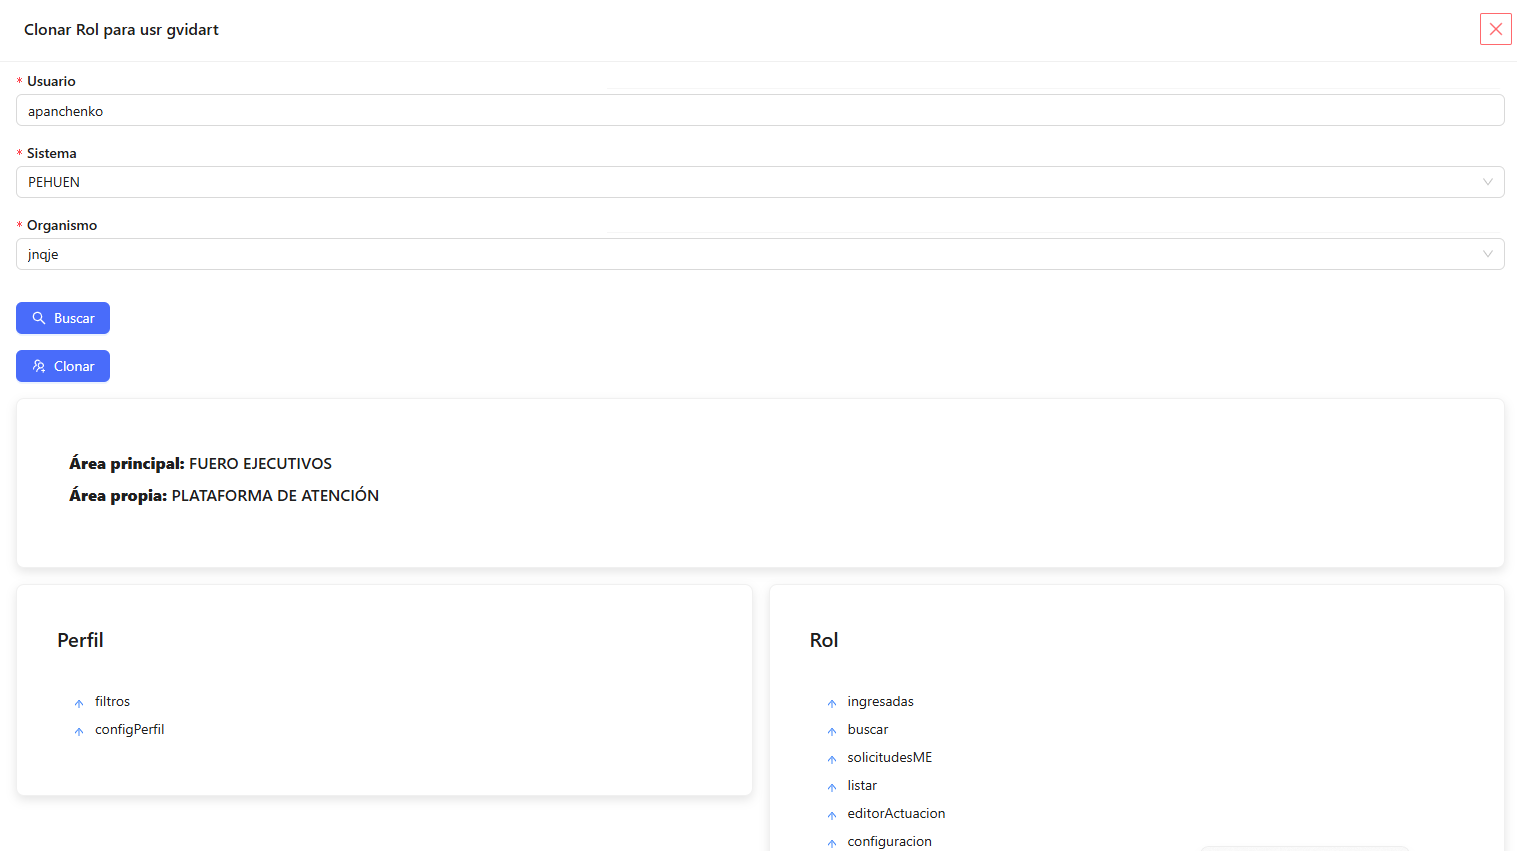
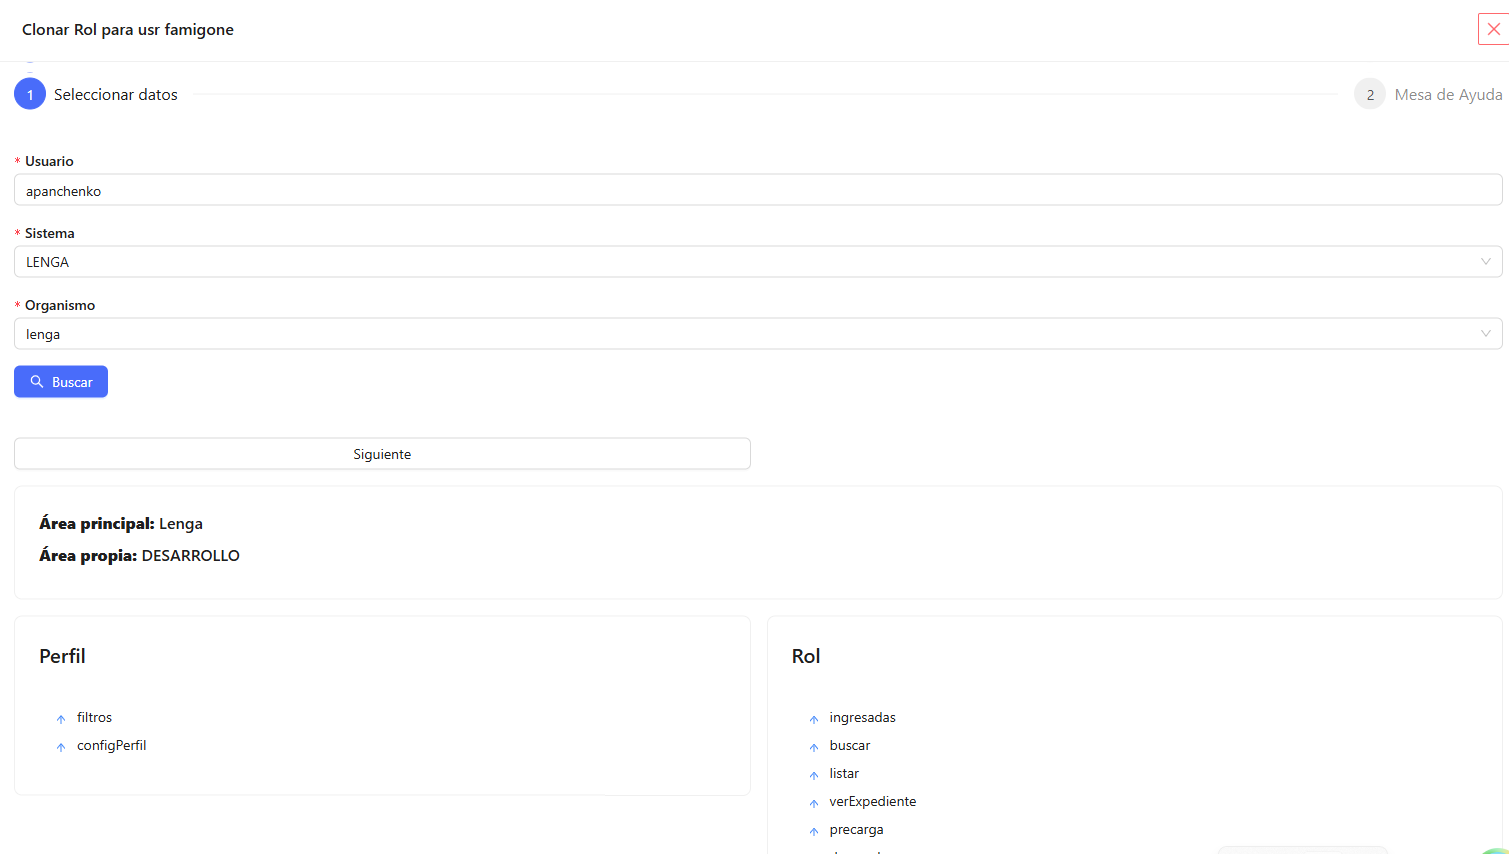
mesa_ayuda_roles

diff --git a/estructuraBD.md b/estructuraBD.md
@@ -232,3 +232,23 @@ Esta colección almacena información sobre los organismos, incluyendo el nombre
 | `updatedAt`       | Date          | Fecha de última actualización de la subárea.                     |
 | `updatedBy`       | String        | Usuario que realizó la última actualización de la subárea.       |
 
+
+## 📂 Colección: mesa_ayuda_roles
+
+### Descripción  
+Esta colección almacena la info de tickets de soporte generados por los usuarios para el pedido de generación de Roles.
+
+### Estructura de la colección
+
+| Campo        | Tipo de dato | Descripción                                                                 |
+|--------------|--------------|-----------------------------------------------------------------------------|
+| _id          | ObjectId     | Identificador único del ticket de soporte.                                 |
+| username     | String       | Nombre de usuario al que se le otorga el Rol                                      |
+| areaLaboral  | String       | Código de organismo.                   |
+| sistema      | String       | Nombre del sistema para el cual se genera el Rol.                                  |
+| nroTkt       | Integer      | Número de ticket referenciado.                                 |
+| solicitante  | String       | Usuario que solicitó el soporte (puede ser diferente del creador).         |
+| createdBy    | String       | Usuario que creó el registro(coincide con quien asigna el rol)                                                |
+| deletedAt    | Date/Null    | Fecha de eliminación (si el registro fue eliminado).                         |
+| createdAt    | Date         | Fecha de creación del registro.                                              |
+| updatedAt    | Date         | Fecha de última actualización del registro.                                  |

diff --git a/guiaUsr.md b/guiaUsr.md
@@ -63,7 +63,11 @@ Es muy común que se solicite dar de alta a un usuario **X** y que tenga los per
 >
 >Luego, con el botón **Buscar** se valida el Rol, obteniendo una vista previa de lo que se le otorgará al usuario.
 >
+>Una vez validado el rol, con el botón **Siguiente**, pasamos al segundo y ultimo paso: Completar, si corresponde, Nro de Tkt de Mesa de ayuda y Solicitante.
+>
 <img src="./docs/assets/img/img guia usr/roles 3.png" width="1800" >
+
+<img src="./docs/assets/img/img guia usr/roles 4.png" width="1800" >
 
 >**TENER EN CUENTA QUE SE CLONA TODA LA ESTRUCTURA DE PERMISOS. EN CASO DE TENER QUE HACER UN AJUSTE, SE DEBERA LUEGO EDITAR**
 >
